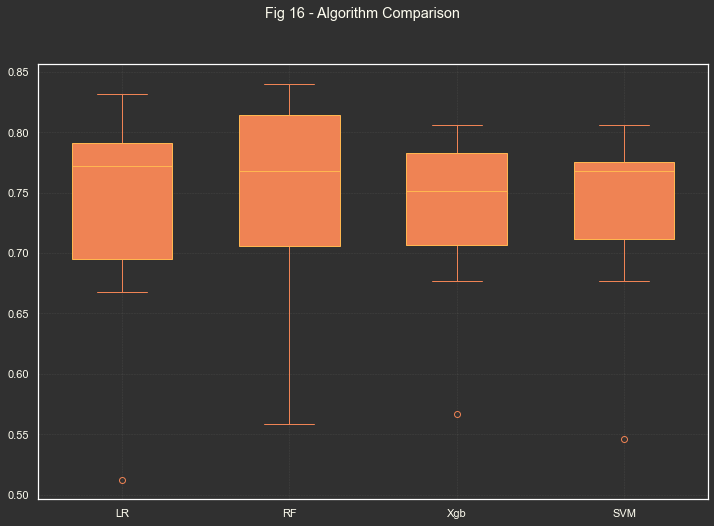
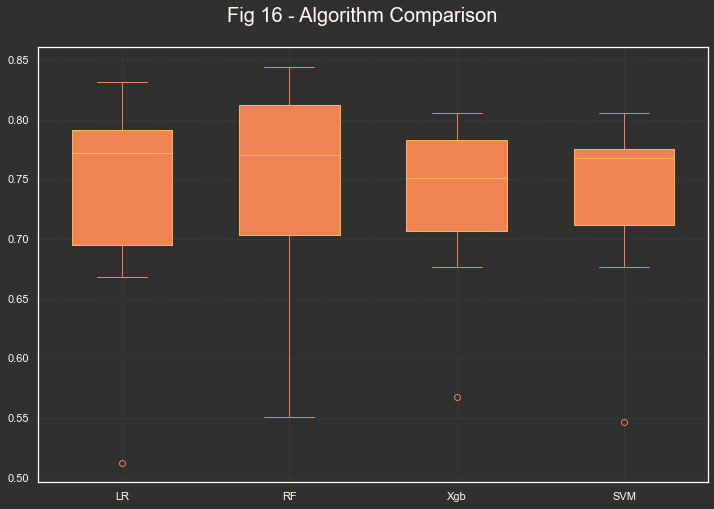
.

diff --git a/md/molletweather/MolletWeather.md b/md/molletweather/MolletWeather.md
@@ -638,10 +638,11 @@ print(metrics.classification_report(y_test,y_pred))
        macro avg       0.86      0.85      0.86       784
     weighted avg       0.86      0.86      0.86       784
 
-## Comparing Models with K-Fold Cross Validation
+## Comparing Models
+###  Accuracy from K-Fold Cross Validation
 We have studied different models individually, by checking that recall data is balanced, and we get good accuracy values, and also have checked different metaparameters for the different models. So we have defined different models with the best values by executing them one by one.
 
-Now, we are going to compare all the models we have created, through K-Fold Cross validation to avoid overfitting as far as we could and most realistic accuracy for our models.
+Now, we are going to compare all the models we have created, through K-Fold Cross validation to avoid overfitting as far as we could get most realistic accuracy for our models.
 
 ### Selecting independent and dependent Variable
 
@@ -686,7 +687,7 @@ for name, model in models:
 ```
 
     LR: 0.736345 (0.089678)
-    RF: 0.749395 (0.081619)
+    RF: 0.747291 (0.083891)
     Xgb: 0.733360 (0.067553)
     SVM: 0.735055 (0.073272)
     
@@ -697,7 +698,7 @@ for name, model in models:
 ```python
 # boxplot algorithm comparison
 fig = plt.figure(figsize=(12,8))
-fig.suptitle('Fig 16 - Algorithm Comparison')
+fig.suptitle('Fig 16 - Algorithm Comparison',y=0.95,size=20)
 ax = fig.add_subplot(111)
 plt.boxplot(results, widths = 0.6,
             patch_artist=True,
@@ -714,6 +715,37 @@ plt.show();
 
     
 ![png](/static/notebooks/molletweather/output_84_0.png)
+    
+
+
+Another point of view of the same data
+
+
+```python
+# Density Plot and Histogram of all arrival delays
+i = 0
+plt.figure(figsize=(12,8))
+for res in results:
+    # Draw the density plot
+    sns.set_palette("Oranges")
+    sns.distplot(res, hist = False, kde = True,
+                 kde_kws = {'linewidth': 2},
+                 label = names[i])
+    i+=1  
+# Plot formatting
+plt.legend(prop={'size': 12})
+plt.grid(color=light_white, linestyle='--', linewidth=0.5,alpha=0.1)
+plt.title('Fig 17 - Density Plot for accuracy Distribution',size=20)
+plt.xlabel('Accuracy')
+plt.ylabel('Density')
+plt.show();
+```
+
+
+    
+![png](/static/notebooks/molletweather/output_86_0.png)
+    
+
 
 ### Roc Curves for different models
 
@@ -738,7 +770,7 @@ for name, model in models:
     fpr, tpr, thresholds = metrics.roc_curve(y_test, probs)
     plt.plot(fpr, tpr, color=dark_theme_colors[i], label=name)
     i+=1
-plt.title('Fig 17 - Receiver Operating Characteristic (ROC) Curve')
+plt.title('Fig 18 - Receiver Operating Characteristic (ROC) Curve',size=20)
 plt.plot([0, 1], [0, 1], color='darkblue', linestyle='--',alpha=0.8)
 plt.xlabel('False Positive Rate')
 plt.ylabel('True Positive Rate')
@@ -746,15 +778,15 @@ plt.legend()
 plt.show();
 ```
 
-    LR  AUC: 0.86
-    RF  AUC: 0.57
-    Xgb  AUC: 0.86
-    SVM  AUC: 0.93
+    LR  AUC: 0.84
+    RF  AUC: 0.80
+    Xgb  AUC: 0.80
+    SVM  AUC: 0.81
     
 
 
     
-![png](/static/notebooks/molletweather/output_87_1.png)
+![png](/static/notebooks/molletweather/output_89_1.png)
     
 
 
@@ -795,7 +827,7 @@ for name, model in models:
         if p > 0.05:
             print("We can reject null-hypothesis, Models performs different")
         else:
-            print("Null hypothesis cannot be rejected, No significant difference")
+            print("Null hypthoesis cannot be rejected, No significant difference")
     
 ```
 
@@ -812,9 +844,10 @@ for name, model in models:
     p-value: 1.140271075004485e-10
     Null hypthoesis cannot be rejected, No significant difference
     
+
 In fact, models are so near that this result could be something obvious, but now we can confirm in an objective way that there is no difference in terms of McNeman test using other models than SVM.
 
-#### Model visualization (using 2 principal features)
+### Model visualization (using 2 principal features)
 We are going to use 'Humitat relativa' and 'Pressió atmosfèrica' as they are 2 principal features in classification models, to take a look on how the classification models are working in the 'backend'.
 
 For that I will use sklearn sample that I have found [here](https://scikit-learn.org/stable/auto_examples/classification/plot_classifier_comparison.html) that it's really interesant.
@@ -836,7 +869,7 @@ xx, yy = np.meshgrid(np.arange(x_min, x_max, h),
 
 # just plot the dataset first
 plt.figure(figsize=(20,15))
-plt.suptitle("Fig 17 - Intuitive Classification by Model",  y=1, size = 28)
+plt.suptitle("Fig 19 - Classification Intiutive Visualization by Model",  y=0.95, size = 28)
 cm = plt.cm.coolwarm
 cm_bright = ListedColormap(['#10D0EE',orange])
 ax = plt.subplot(1, len(models) + 1, 1)
@@ -885,11 +918,13 @@ for name, clf in models:
     i += 1
 ```
 
-  
-![png](/static/notebooks/molletweather/output_94_0.png)
+
+    
+![png](/static/notebooks/molletweather/output_96_0.png)
+    
 
 
-## Automated tool - Tpot
+### Automated tool - Tpot
 We are going to use an automated tool to compare our score with automated score tool.
 We are going to use [Tpot](http://epistasislab.github.io/tpot/) tool. In terms of score comparision we should know that by default k-fold cross validation for Tpot is *10* the same as we have used when comparing models.
 
